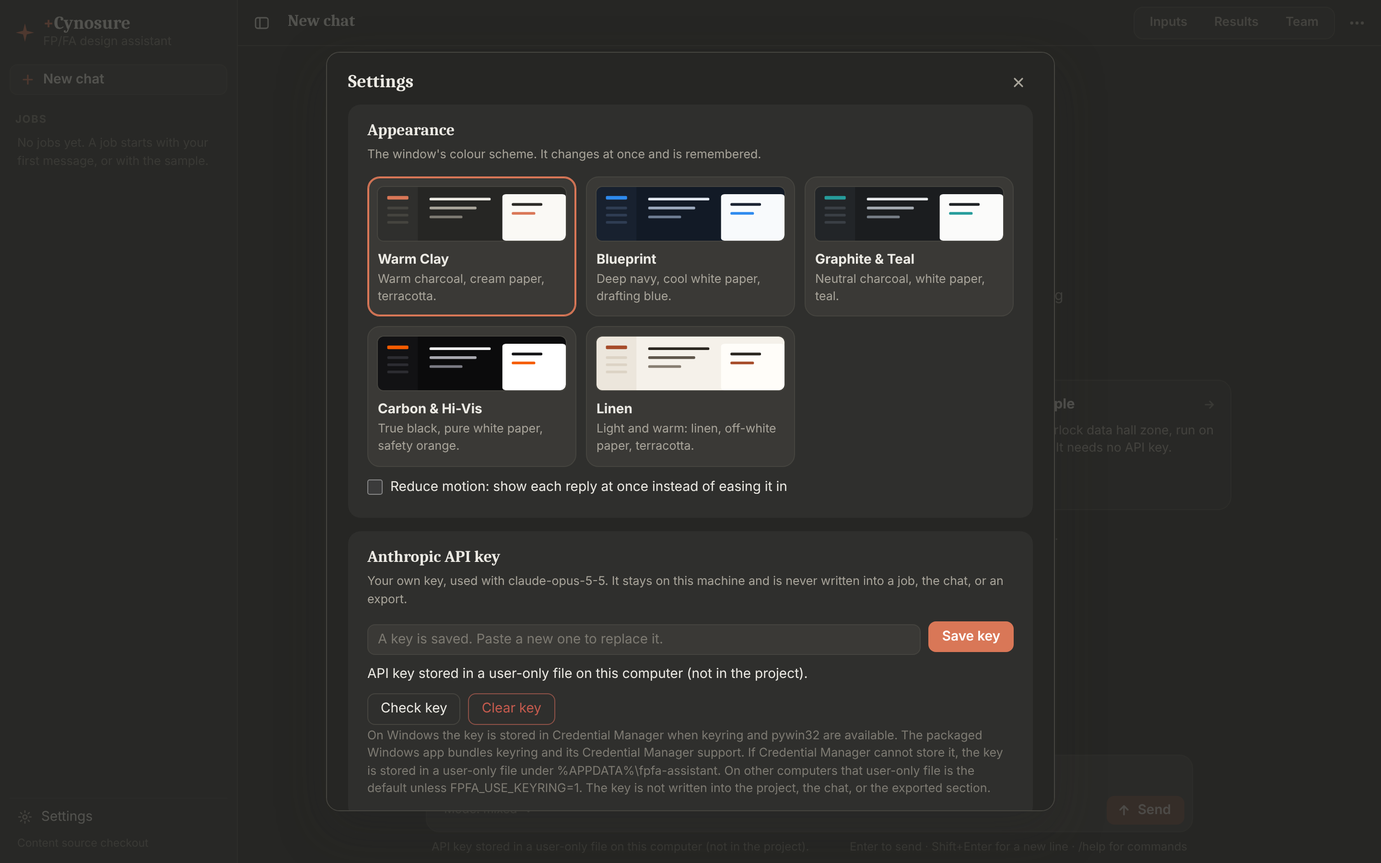
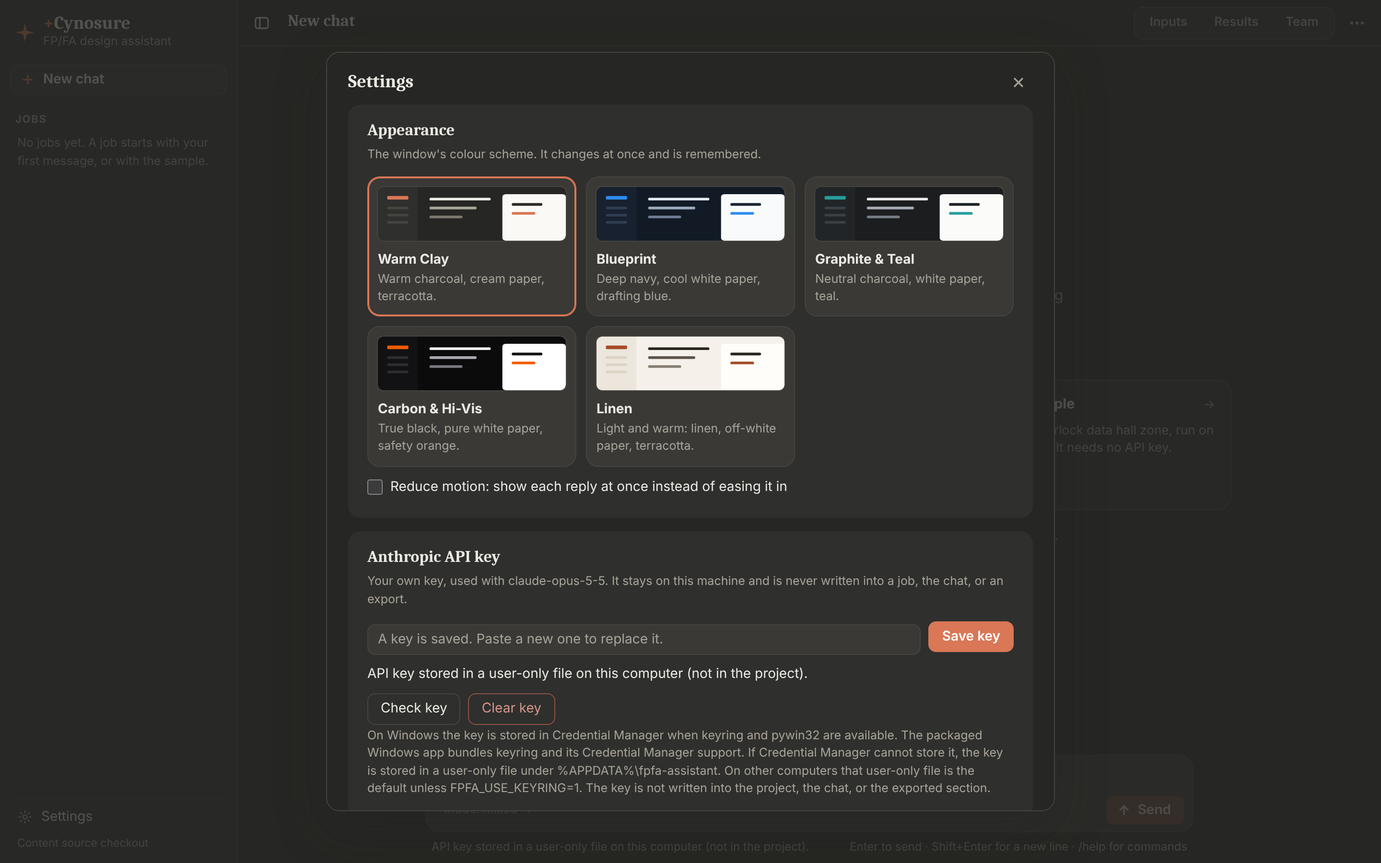
Read every rule that colours text at 4.5:1 in all five schemes
F-005 of the app-v0.3.0 acceptance report, and the rest of the same rule.

Small secondary text read --ink-faint: the sidebar's tagline and content
line, the composer's footer, units, section labels, table heads, captions,
menu hints, and placeholders, at 2.7 to 4.6:1 by scheme and surface. It
now reads --ink-dim, which holds 4.5:1 on every surface in every scheme.
--ink-faint stays on what is not text a reader needs: borders, fills, a
separator dot, and a decorative icon.

The report measured the faint text. The same rule failed for text in a
status colour, at the default scheme's worst: error text 3.2:1, links and
the attention label 4.3:1, and warning text 3.85:1 in Linen. Each now mixes
its colour toward the ink, by the smallest share that reads at 4.5:1 in
all five schemes (error 40 percent, link and attention 20, warning 15), so
it keeps its hue. A glyph or icon in a status colour keeps its token.

Held by a test that reads styles.css and resolves every text colour in
every scheme against the background, the surface, and a raised card, and
by one that keeps --ink-faint off text. A disabled control is exempt, as
WCAG 1.4.3 exempts inactive components. Text on the accent is left out,
and said so: Warm Clay's white on terracotta is 3.1:1, a brand colour that
is the owner's to change.

The page is rebuilt (the script is byte for byte the same; its name moves
with the stylesheet's) and the README's pictures retaken.
[…]

Changed region(s): [[0.2812, 0.84, 0.7188, 0.9333], [0.4375, 0.7156, 0.4688, 0.7467], [0.3438, 0.7156, 0.375, 0.7467]]

diff --git a/app/fpfa/web/static/assets/index-Cip3EMOz.css b/app/fpfa/web/static/assets/index-Cip3EMOz.css
@@ -1,0 +1,1 @@
+:root,:root[data-theme=clay]{color-scheme:dark;--bg: #262624;--surface: #2f2f2d;--raised: #3a3936;--edge: #45443f;--ink: #eceae4;--ink-dim: #a8a49a;--ink-faint: #7d7a72;--accent: #d97757;--accent-hover: #e08b6d;--on-accent: #ffffff;--paper: #faf9f5;--paper-edge: #e6e2d8;--paper-ink: #2c2b27;--paper-dim: #8a8578;--paper-faint: #b5b0a3;--ok: #7fa650;--warn: #d4a04c;--err: #c65b4e;--err-tint: #fbeeec}:root[data-theme=blueprint]{color-scheme:dark;--bg: #121a26;--surface: #18212f;--raised: #212c3d;--edge: #2f3d53;--ink: #e3e9f2;--ink-dim: #9aa8bc;--ink-faint: #6e7d93;--accent: #2e8aee;--accent-hover: #4da0f5;--on-accent: #08111d;--paper: #f8fafc;--paper-edge: #dbe2ec;--paper-ink: #1b2433;--paper-dim: #66748a;--paper-faint: #a5b0c0;--ok: #428a5e;--warn: #e2ad4f;--err: #dc4739;--err-tint: #fcefee}:root[data-theme=graphite]{color-scheme:dark;--bg: #1b1d1f;--surface: #222528;--raised: #2b2f33;--edge: #3a3f45;--ink: #e7e9eb;--ink-dim: #a3a9b0;--ink-faint: #767d85;--accent: #269c9b;--accent-hover: #37acaa;--on-accent: #061b1b;--paper: #fbfbfa;--paper-edge: #e1e4e6;--paper-ink: #1f2326;--paper-dim: #6c747c;--paper-faint: #a8afb5;--ok: #5f8f3a;--warn: #e0a54a;--err: #d94b3c;--err-tint: #fcefed}:root[data-theme=carbon]{color-scheme:dark;--bg: #0b0b0c;--surface: #121214;--raised: #1b1b1e;--edge: #2c2c31;--ink: #f4f4f5;--ink-dim: #a9a9b0;--ink-faint: #7a7a82;--accent: #f55b00;--accent-hover: #ff7d30;--on-accent: #140700;--paper: #ffffff;--paper-edge: #e2e2e4;--paper-ink: #141416;--paper-dim: #66666d;--paper-faint: #a6a6ad;--ok: #318c52;--warn: #e8b230;--err: #e12c31;--err-tint: #fdecec}:root[data-theme=linen]{color-scheme:light;--bg: #f5f1ea;--surface: #ece6dc;--raised: #fffdf9;--edge: #dcd3c5;--ink: #2a2620;--ink-dim: #5f564b;--ink-faint: #877e72;--accent: #a64b29;--accent-hover: #8d3f22;--on-accent: #ffffff;--paper: #fffdf9;--paper-edge: #e6dfd3;--paper-ink: #2a2620;--paper-dim: #6c6459;--paper-faint: #aaa293;--ok: #3c7e39;--warn: #9d671b;--err: #b33d2c;--err-tint: #fbeceb}:root{--accent-soft: color-mix(in srgb, var(--accent) 16%, var(--bg));--select: color-mix(in srgb, var(--accent) 36%, var(--bg));--raised-hover: color-mix(in srgb, var(--ink) 7%, var(--raised));--raised-pressed: color-mix(in srgb, var(--ink) 13%, var(--raised));--side-hover: color-mix(in srgb, var(--ink) 6%, var(--surface));--focus-edge: color-mix(in srgb, var(--accent) 70%, var(--edge));--banner: color-mix(in srgb, var(--accent) 14%, var(--surface));--banner-edge: color-mix(in srgb, var(--accent) 45%, var(--edge));--paper-select: color-mix(in srgb, var(--accent) 24%, var(--paper));--paper-rule: color-mix(in srgb, var(--paper-ink) 22%, var(--paper));--disabled-ink: color-mix(in srgb, var(--ink) 36%, var(--bg));--shade: color-mix(in srgb, var(--bg) 35%, transparent);--overlay: color-mix(in srgb, var(--bg) 78%, transparent);--hairline: color-mix(in srgb, var(--edge) 60%, transparent);--font-body: "Segoe UI", ui-sans-serif, system-ui, -apple-system, "Helvetica Neue", Arial, sans-serif;--font-display: Georgia, Cambria, "Times New Roman", serif;--font-mono: "Cascadia Code", "Cascadia Mono", Consolas, ui-monospace, "SF Mono", Menlo, monospace;--column: 800px;--side-width: 248px;--bar-height: 48px;--ease-glide: cubic-bezier(.22, 1, .36, 1);--fade-ms: .52s}*{box-sizing:border-box}html,body,#root{height:100%;margin:0}body{background:var(--bg);color:var(--ink);font-family:var(--font-body);font-size:14px;line-height:1.45;-webkit-font-smoothing:antialiased;overflow:hidden}::selection{background:var(--select);color:var(--ink)}button,input,select,textarea{font:inherit;color:inherit}:focus{outline:none}:focus-visible{outline:2px solid var(--accent);outline-offset:2px}::-webkit-scrollbar{width:11px;height:11px}::-webkit-scrollbar-track{background:transparent}::-webkit-scrollbar-thumb{background:var(--edge);border:3px solid transparent;border-radius:8px;background-clip:padding-box}::-webkit-scrollbar-thumb:hover{background-color:var(--ink-faint)}.small{font-size:12.5px}.dim,.faint{color:var(--ink-dim)}.err{color:color-mix(in srgb,var(--err) 60%,var(--ink))}.warn-ink{color:color-mix(in srgb,var(--warn) 85%,var(--ink))}.pre-line{white-space:pre-line}.right{display:flex;justify-content:flex-end}.grow{flex:1}.display{font-family:var(--font-display);font-weight:600}p{margin:.3em 0}.visually-hidden{position:absolute;width:1px;height:1px;overflow:hidden;clip-path:inset(50%);white-space:nowrap}.loading{display:grid;place-items:center;height:100%;color:var(--ink-dim)}.window{display:flex;flex-direction:column;height:100%}.body{flex:1;min-height:0;display:grid;grid-template-columns:var(--side-width) minmax(0,1fr)}.body.no-side{grid-template-columns:minmax(0,1fr)}.work{display:flex;flex-direction:column;min-width:0;min-height:0}.stage{flex:1;min-height:0;display:grid;grid-template-columns:minmax(0,1fr)}.stage.with-panel{grid-template-columns:minmax(0,1fr) var(--panel-w, var(--panel-want, 480px))}.stage.panel-wide{grid-template-columns:minmax(0,1fr)}.stage.panel-wide .chat{display:none}body.resizing{cursor:col-resize;user-select:none}.banner-row{padding:12px 12px 0}.banner{display:flex;width:100%;align-items:flex-start;gap:12px;text-align:left;background:var(--banner);border:1px solid var(--banner-edge);border-radius:12px;padding:10px 16px;cursor:pointer}.banner span{flex:1}.button{display:inline-flex;align-items:center;justify-content:center;gap:7px;border:1px solid var(--edge);background:var(--raised);color:var(--ink);border-radius:8px;padding:5px 13px;min-height:32px;cursor:pointer;white-space:nowrap;transition:background-color .12s ease,border-color .12s ease}.button:hover{background:var(--raised-hover)}.button:active{background:var(--raised-pressed)}.button:disabled{color:var(--disabled-ink);cursor:default;background:var(--raised)}.button.wide{width:100%}.button.accent{background:var(--accent);border-color:var(--accent);color:var(--on-accent);font-weight:600}.button.accent:hover{background:var(--accent-hover);border-color:var(--accent-hover)}.button.accent:disabled{background:color-mix(in srgb,var(--accent) 38%,var(--bg));border-color:transparent;color:color-mix(in srgb,var(--on-accent) 70%,transparent)}.button.accent:focus-visible,.button.danger:focus-visible{outline:2px solid var(--on-accent);outline-offset:-5px}.button.ghost,.button.side{background:transparent}.button.ghost:hover{background:var(--raised)}.button.side:hover{background:var(--side-hover)}.button.on-card{background:transparent}.button.on-card:hover{background:var(--raised-hover)}.button.quiet{border-color:transparent;background:transparent;color:var(--ink-dim);min-height:28px;padding:3px 9px;font-size:12.5px}.button.quiet:hover{background:var(--raised-hover);color:var(--ink)}.button.danger{background:var(--err);border-color:var(--err);color:var(--on-accent);font-weight:600}.button.danger-ghost,.button.stop{background:transparent;color:color-mix(in srgb,var(--err) 60%,var(--ink));border-color:color-mix(in srgb,var(--err) 55%,var(--edge))}.button.danger-ghost:hover,.button.stop:hover{background:color-mix(in srgb,var(--err) 12%,var(--surface))}.button.danger-ghost:disabled{color:var(--disabled-ink);border-color:var(--edge);background:transparent}.icon-button{display:inline-grid;place-items:center;width:30px;height:30px;border:0;border-radius:8px;background:transparent;color:var(--ink-dim);cursor:pointer;flex:none}.icon-button:hover{background:var(--raised);color:var(--ink)}.icon-button.on{color:var(--ink)}.link{border:0;background:none;color:color-mix(in srgb,var(--accent) 80%,var(--ink));padding:3px 0;cursor:pointer;text-align:left}.link:hover{text-decoration:underline}.chip{border:1px solid var(--edge);background:transparent;color:var(--ink-dim);border-radius:14px;padding:4px 12px;font-size:13px;cursor:pointer}.chip:hover{background:var(--raised);color:var(--ink)}.input{width:100%;min-width:0;background:var(--raised);border:1px solid var(--edge);border-radius:8px;padding:5px 10px;min-height:32px;color:var(--ink)}.input:hover{border-color:color-mix(in srgb,var(--ink-faint) 55%,var(--edge))}.input:focus,.input:focus-visible{border-color:var(--accent);outline:none}.input::placeholder{color:var(--ink-dim)}.input.well{background:var(--bg)}.input.notes{resize:vertical;min-height:72px;line-height:1.45;padding:7px 10px}.select{appearance:none;padding-left:8px;padding-right:24px;text-overflow:ellipsis;background-image:linear-gradient(45deg,transparent 50%,var(--ink-dim) 50%),linear-gradient(135deg,var(--ink-dim) 50%,transparent 50%);background-position:calc(100% - 15px) 52%,calc(100% - 10px) 52%;background-size:5px 5px;background-repeat:no-repeat}.field{display:flex;flex-direction:column;gap:4px;min-width:0}.field-label{color:var(--ink-dim);font-size:12px;white-space:nowrap;overflow:hidden;text-overflow:ellipsis}.control{position:relative}.control.with-unit .input{padding-right:56px}.unit{position:absolute;right:10px;top:50%;transform:translateY(-50%);font-size:11.5px;color:var(--ink-dim);pointer-events:none}.check{display:inline-flex;align-items:center;gap:8px;cursor:pointer;padding:3px 0}.check input{accent-color:var(--accent);width:16px;height:16px;margin:0}.sidebar{background:var(--surface);border-right:1px solid var(--edge);padding:12px 10px 10px;display:flex;flex-direction:column;min-height:0;min-width:0}.brand{display:flex;align-items:center;gap:9px;margin:2px 6px 14px}.star{color:var(--accent);flex:none}.wordmark{font-family:var(--font-display);font-weight:700;font-size:19px;line-height:1.1;color:var(--ink)}.wordmark .plus{color:var(--accent)}.new-chat{justify-content:flex-start;gap:9px;padding-left:11px;font-weight:600}.new-chat svg{color:var(--accent)}.section-label{font-size:11px;font-weight:700;letter-spacing:.08em;color:var(--ink-dim);margin:18px 6px 6px}.jobs{list-style:none;margin:0;padding:0;overflow-y:auto;flex:1;min-height:60px}.jobs.none{padding:2px 8px;line-height:1.5}.job{display:flex;align-items:center;gap:4px;padding:6px 6px 6px 10px;border-radius:8px;cursor:pointer;color:var(--ink-dim);min-height:34px}.job:hover{background:var(--side-hover);color:var(--ink)}.job.open{background:var(--raised);color:var(--ink)}.job-name{flex:1;min-width:0;overflow:hidden;text-overflow:ellipsis;white-space:nowrap}.job-more{visibility:hidden;border:0;background:transparent;color:var(--ink-dim);border-radius:6px;width:26px;height:24px;display:grid;place-items:center;cursor:pointer}.job:hover .job-more,.job:focus-within .job-more,.job.open .job-more{visibility:visible}.job-more:hover{color:var(--ink);background:var(--raised-hover)}.side-bottom{display:flex;flex-direction:column;gap:2px;padding-top:6px}.side-section{margin-bottom:6px}.side-section .section-label{margin-top:8px}.lines{list-style:none;margin:0;padding:0 4px;max-height:112px;overflow-y:auto;font-size:12.5px;color:var(--ink-dim)}.line-row{display:flex;gap:6px;padding:3px 6px;white-space:nowrap;overflow:hidden;text-overflow:ellipsis}.line-row .name{overflow:hidden;text-overflow:ellipsis}.line-row .glyph{width:1em;text-align:center;flex:none}.tone-accent .glyph{color:var(--accent)}.tone-ok .glyph{color:var(--ok)}.tone-err .glyph{color:var(--err)}.tone-warn .glyph{color:var(--warn)}.line-row .sep{color:var(--ink-faint)}.side-link{display:flex;align-items:center;gap:9px;width:100%;border:0;border-top:1px solid var(--hairline);background:transparent;color:var(--ink);padding:9px 8px 7px;margin-top:2px;cursor:pointer;text-align:left;border-radius:0 0 8px 8px}.side-link:hover{background:var(--side-hover)}.side-link svg{color:var(--ink-dim);flex:none}.side-flag{font-size:11px;padding:1px 7px;border-radius:9px;background:color-mix(in srgb,var(--warn) 26%,var(--surface))}.sidebar .content-status{margin:0 8px 2px;font-size:11.5px;white-space:nowrap;overflow:hidden;text-overflow:ellipsis}.topbar{flex:none;display:flex;align-items:center;gap:6px;height:var(--bar-height);padding:0 10px;border-bottom:1px solid var(--edge)}.job-title{flex:0 0 auto;max-width:46%;margin:0 4px 0 6px;font-size:17px;white-space:nowrap;overflow:hidden;text-overflow:ellipsis}.team-strip{flex:0 1 auto;min-width:0;margin-right:auto;display:flex;align-items:center;gap:8px;border:0;border-radius:8px;background:transparent;color:var(--ink-dim);padding:5px 9px;font-size:12.5px;text-align:left;cursor:pointer}.team-strip:hover{background:var(--raised);color:var(--ink)}.strip-dot{width:7px;height:7px;flex:none;border-radius:50%;background:var(--ink-faint)}.team-strip.waiting .strip-dot{background:var(--accent)}.strip-text{min-width:0;overflow:hidden;text-overflow:ellipsis;white-space:nowrap}.views{flex:none;display:flex;gap:2px;padding:3px;margin:0 2px;background:var(--surface);border:1px solid var(--edge);border-radius:10px}.view{display:inline-flex;align-items:center;gap:7px;min-height:26px;border:0;border-radius:7px;background:transparent;color:var(--ink-dim);padding:3px 13px;font-size:13px;font-weight:600;cursor:pointer}.view:hover{color:var(--ink);background:var(--side-hover)}.view.on{background:var(--accent-soft);color:var(--ink);box-shadow:inset 0 0 0 1px var(--focus-edge)}.count{display:inline-block;min-width:18px;padding:0 5px;border-radius:9px;background:var(--accent);color:var(--on-accent);font-size:11px;line-height:18px;text-align:center}.chat{display:flex;flex-direction:column;min-width:0;min-height:0;container:chat / inline-size}.thread-wrap{flex:1;min-height:0;position:relative}.thread-scroll{position:absolute;inset:0;overflow-y:auto;scrollbar-gutter:stable both-edges}.thread-column{max-width:calc(var(--column) + 48px);margin:0 auto;padding:18px 24px 20px;font-size:15px;line-height:1.55}.thread-column.empty{max-width:960px;min-height:100%;display:flex;align-items:center}.composer-row{width:100%;max-width:calc(var(--column) + 70px);margin:0 auto;padding:4px 35px 8px}.turn{margin:14px 0;content-visibility:auto;contain-intrinsic-size:auto 160px}.turn.user{display:flex;justify-content:flex-end;animation:rise .24s var(--ease-glide) both}.bubble{max-width:82%;background:var(--raised);border-radius:16px;padding:9px 15px 10px;white-space:pre-wrap;overflow-wrap:anywhere}.reply{overflow-wrap:anywhere}.block+.block{margin-top:.75em}.caption{font-size:12px;color:var(--ink-dim);margin-bottom:7px;line-height:1.4}.line{white-space:pre-wrap}.heading{font-family:var(--font-display);font-weight:600;margin:.6em 0 .2em;line-height:1.3}.heading.h1{font-size:1.32em}.heading.h2{font-size:1.18em}.heading.h3,.heading.h4{font-size:1.05em}.block:first-child>.heading:first-child{margin-top:0}.item{display:flex;gap:.55em;padding-left:8px}.item.depth2{padding-left:28px}.marker{flex:none;min-width:.8em;color:var(--ink-dim)}.item-body{min-width:0;white-space:pre-wrap}.reply strong{font-weight:650}.reply code,.bubble code{font-family:var(--font-mono);font-size:.88em;background:var(--raised);border-radius:5px;padding:1px 5px}.reply hr{border:0;border-top:1px solid var(--edge);margin:.8em 0}.paper{background:var(--paper);color:var(--paper-ink);border-radius:10px}.paper::selection,.paper *::selection{background:var(--paper-select);color:var(--paper-ink)}.block-pre{font-family:var(--font-mono);font-size:13px;line-height:1.5;padding:12px 14px;margin:2px 0;white-space:pre;overflow-x:auto}.block-table{padding:6px 4px;overflow-x:auto;margin:2px 0}.block-table table{border-collapse:collapse;font-family:var(--font-mono);font-size:13px;width:max-content;min-width:100%}.block-table th,.block-table td{padding:4px 10px;vertical-align:top}.block-table th{font-weight:700;border-bottom:1px solid var(--paper-rule)}.block-table tbody tr+tr td{border-top:1px solid var(--paper-edge)}.fresh{animation:fade-in var(--fade-ms) var(--ease-glide) both}@keyframes fade-in{0%{opacity:0}to{opacity:1}}@keyframes rise{0%{opacity:0;transform:translateY(6px)}to{opacity:1;transform:none}}.caret{display:inline-block;width:.48em;height:1.05em;margin-left:2px;vertical-align:-.16em;border-radius:1px;background:var(--accent)}.caret.blink{animation:blink 1.1s steps(2,jump-none) infinite}@keyframes blink{50%{opacity:0}}.working{display:flex;align-items:center;gap:10px;margin:12px 0 4px;color:var(--ink-dim);font-size:14px}.dots{display:inline-flex;gap:4px}.dots i{width:6px;height:6px;border-radius:50%;background:var(--accent);opacity:.55}.working.moving .dots i{animation:pulse 1.2s ease-in-out infinite}.working.moving .dots i:nth-child(2){animation-delay:.15s}.working.moving .dots i:nth-child(3){animation-delay:.3s}@keyframes pulse{0%,to{opacity:.25;transform:scale(.85)}40%{opacity:1;transform:scale(1)}}.working-detail{color:var(--ink-dim)}.working.moving .working-detail{background:linear-gradient(90deg,var(--ink-faint) 0%,var(--ink) 50%,var(--ink-faint) 100%);background-size:200% 100%;-webkit-background-clip:text;background-clip:text;color:transparent;animation:shimmer 2.2s linear infinite}@keyframes shimmer{0%{background-position:100% 0}to{background-position:-100% 0}}.welcome{width:100%;padding:12px 0 20px;text-align:center}.welcome h1{font-size:28px;margin:12px 0 8px}.welcome .dim{max-width:560px;margin:4px auto}.welcome-links{display:flex;flex-direction:column;align-items:center;gap:6px;margin:18px 0 0}.welcome-link{border:1px solid var(--banner-edge);background:var(--banner);color:var(--ink);border-radius:10px;padding:7px 15px;cursor:pointer}.welcome-link:hover{border-color:var(--accent)}.welcome-cards{display:grid;grid-template-columns:repeat(3,minmax(0,1fr));gap:12px;max-width:880px;margin:26px auto 18px;text-align:left}.welcome-card{display:flex;flex-direction:column;gap:6px;border:1px solid var(--edge);border-radius:14px;background:var(--surface);color:var(--ink);padding:14px 16px 16px;text-align:left;cursor:pointer;transition:background-color .12s ease,border-color .12s ease}.welcome-card:hover{background:var(--raised);border-color:var(--focus-edge)}.card-title{display:flex;align-items:center;justify-content:space-between;gap:8px;font-size:14.5px;font-weight:650}.card-title svg{color:var(--ink-faint);flex:none}.welcome-card:hover .card-title svg{color:var(--accent)}.card-text{font-size:13px;line-height:1.45;color:var(--ink-dim)}@container chat (max-width: 660px){.welcome-cards{grid-template-columns:minmax(0,1fr);max-width:420px}.composer-foot .hint{display:none}}.jump{position:absolute;left:50%;bottom:12px;transform:translate(-50%);display:inline-flex;align-items:center;gap:6px;border:1px solid var(--edge);background:var(--raised);color:var(--ink);border-radius:16px;padding:5px 13px;font-size:13px;cursor:pointer;box-shadow:0 4px 14px var(--shade)}.jump:hover{background:var(--raised-hover)}.chips{display:flex;flex-wrap:wrap;gap:8px;margin-bottom:9px}.composer{display:flex;flex-direction:column;gap:2px;background:var(--raised);border:1px solid var(--edge);border-radius:14px;padding:8px 8px 7px;cursor:text;transition:border-color .12s ease}.composer:focus-within{border-color:var(--focus-edge)}.composer textarea{width:100%;min-width:0;border:0;background:transparent;resize:none;padding:4px 8px 6px;font-size:15px;line-height:22px}.composer textarea::placeholder{color:var(--ink-dim);white-space:nowrap;overflow:hidden;text-overflow:ellipsis}.composer textarea:focus-visible{outline:none}.composer-bar{display:flex;align-items:center;gap:6px;cursor:default}.composer .send,.composer .stop{min-height:30px;padding:4px 13px 4px 10px}.composer-foot{display:flex;justify-content:space-between;gap:16px;padding:6px 6px 0;font-size:12px;color:var(--ink-dim);min-height:24px}.composer-foot .status{flex:1;min-width:0;white-space:nowrap;overflow:hidden;text-overflow:ellipsis}.composer-foot .hint{white-space:nowrap}.job-panel{position:relative;display:flex;flex-direction:column;min-width:0;min-height:0;background:var(--surface);border-left:1px solid var(--edge);container:panel / inline-size;animation:slide-in .18s var(--ease-glide) both}.stage.panel-wide .job-panel{border-left:0;animation:none}@keyframes slide-in{0%{opacity:0;transform:translate(12px)}}.panel-edge{position:absolute;left:-5px;top:0;bottom:0;width:9px;z-index:5;cursor:col-resize;touch-action:none}.panel-edge:after{content:"";position:absolute;left:3px;top:0;bottom:0;width:2px;background:transparent;transition:background-color .12s ease}.panel-edge:hover:after,.panel-edge:focus-visible:after,body.resizing .panel-edge:after{background:var(--accent)}.panel-edge:focus-visible{outline:none}.pane{flex:1;min-height:0;display:flex;flex-direction:column}.pane-scroll{flex:1;min-height:0;overflow-y:auto;padding:16px 18px 20px;font-size:13.5px}.action-bar{flex:none;display:flex;align-items:center;gap:14px;padding:10px 18px;border-top:1px solid var(--edge)}.action-note{flex:1;min-width:0}.card{background:var(--raised);border-radius:12px;padding:12px 14px}.row,.row-buttons{display:flex;flex-wrap:wrap;align-items:center;gap:8px}.group{margin:0 0 20px}.group-title{margin:0 0 10px;font-family:var(--font-body);font-size:13px;font-weight:650;color:var(--ink)}.group-note{margin:10px 0 0;line-height:1.5}.empty{max-width:460px;margin:12vh auto 0;text-align:center}.empty h2{margin:0 0 8px;font-size:19px}.empty-actions{justify-content:center;margin-top:16px}.inputs-columns{display:grid;grid-template-columns:minmax(0,1fr);gap:0 32px;align-items:start}.inputs .group+.group{border-top:1px solid var(--hairline);padding-top:16px}.inputs-column+.inputs-column .group:first-child{border-top:1px solid var(--hairline);padding-top:16px}.fields{display:grid;grid-template-columns:repeat(2,minmax(0,1fr));gap:10px 12px;align-items:start}.field.span-all{grid-column:1 / -1}.flags{display:flex;flex-wrap:wrap;gap:2px 22px;margin-top:10px}.segments{margin-top:12px;padding:6px 10px 12px}.grid-table{width:100%;border-collapse:collapse;font-size:13px}.grid-table th{text-align:left;font-size:11.5px;color:var(--ink-dim);font-weight:600;padding:5px 6px;border-bottom:1px solid var(--edge);white-space:nowrap}.grid-table td{padding:4px 6px;border-bottom:1px solid var(--hairline)}.grid-table .num{text-align:right;font-variant-numeric:tabular-nums}.grid-table .end{width:30px;text-align:right;padding-right:0}.small-x{width:24px;height:24px}.segment-add{display:grid;grid-template-columns:1.2fr .8fr 1fr 1fr auto;gap:8px;align-items:end;margin-top:10px}.assumptions{line-height:1.55}@container panel (min-width: 900px){.inputs-columns{grid-template-columns:minmax(0,1.1fr) minmax(0,1fr)}.inputs-column+.inputs-column .group:first-child{border-top:0;padding-top:0}}@container panel (min-width: 520px){.fields{grid-template-columns:repeat(4,minmax(0,1fr))}}@container panel (max-width: 460px){.segment-add{grid-template-columns:1fr 1fr}.segment-add .button{grid-column:1 / -1}}.results-head{display:flex;align-items:flex-start;justify-content:space-between;gap:12px;margin-bottom:12px}.results-head h2{margin:0;font-size:18px}.results-head p{margin:2px 0 0}.tiles{display:grid;grid-template-columns:repeat(2,minmax(0,1fr));gap:10px;margin-bottom:20px}@container panel (max-width: 400px){.tiles{grid-template-columns:minmax(0,1fr)}}@container panel (min-width: 820px){.tiles{grid-template-columns:repeat(auto-fill,minmax(250px,1fr))}}.tile{display:flex;flex-direction:column;gap:5px;min-width:0;background:var(--raised);border:1px solid transparent;border-radius:12px;padding:12px 14px 13px}.tile.span-all{grid-column:1 / -1}.tile-head{display:flex;flex-wrap:wrap;align-items:center;justify-content:space-between;gap:4px 8px;min-height:20px}.tile-title{font-size:12px;font-weight:650;color:var(--ink-dim)}.label-chip{flex:none;padding:1px 8px;border-radius:9px;background:color-mix(in srgb,var(--ink) 9%,var(--raised));color:var(--ink-dim);font-size:11px;white-space:nowrap}.label-chip.assumed{background:color-mix(in srgb,var(--warn) 26%,var(--raised));color:var(--ink)}.tile-value{display:flex;align-items:baseline;gap:6px}.tile-value .display{font-size:28px;line-height:1.15}.tile-unit{font-size:13px;color:var(--ink-dim)}.tile-code{font-family:var(--font-mono);font-size:12px;background:var(--bg);border-radius:7px;padding:7px 9px;overflow-wrap:anywhere}.tile p{margin:0}.tile-verdict{font-size:12.5px;font-weight:650}.tile-line{font-size:12px;line-height:1.45;color:var(--ink-dim)}.tile.tone-warn{border-color:color-mix(in srgb,var(--warn) 55%,var(--edge));background:color-mix(in srgb,var(--warn) 8%,var(--raised))}.tile.tone-ok{border-color:color-mix(in srgb,var(--ok) 45%,var(--edge))}.results-columns{display:grid;grid-template-columns:minmax(0,1fr);gap:0 32px;align-items:start}@container panel (min-width: 900px){.results-columns{grid-template-columns:repeat(2,minmax(0,1fr))}}.narrative{max-width:78ch;line-height:1.55;color:var(--ink-dim)}.run-heading{margin-top:14px}.results .callout{margin-bottom:14px}.disclosure{border-top:1px solid var(--hairline);padding-top:8px}.disclosure>summary{display:flex;align-items:center;gap:8px;padding:5px 4px;border-radius:7px;font-size:13px;font-weight:650;cursor:pointer;list-style:none}.disclosure>summary::-webkit-details-marker{display:none}.disclosure>summary:hover{background:var(--raised)}.sheet{font-family:var(--font-mono);font-size:12.5px;line-height:1.5;white-space:pre-wrap;overflow-wrap:anywhere;padding:14px 16px;margin:8px 0 0}.team-grid{display:grid;grid-template-columns:minmax(0,1fr);gap:0 28px;align-items:start}.team-block{margin-bottom:20px}.team-block>.section-label{margin:0 2px 8px}.section-label.attention{color:color-mix(in srgb,var(--accent) 80%,var(--ink))}.team .card+.card{margin-top:8px}.team .card p{margin:0 0 6px}.team .card p:last-child{margin-bottom:0}.block-note{margin:8px 2px 0;line-height:1.5}@container panel (min-width: 940px){.team-grid{grid-template-columns:minmax(0,1.2fr) minmax(0,1fr)}.team-area.waiting{grid-column:1 / -1;display:grid;grid-template-columns:repeat(auto-fit,minmax(340px,1fr));gap:0 28px;align-items:start}}.stand-objective{font-family:var(--font-display);font-size:15.5px}.stand-columns{display:grid;grid-template-columns:minmax(0,1fr);gap:0 24px}.stand{container:stand / inline-size}@container stand (min-width: 700px){.stand-columns{grid-template-columns:repeat(auto-fit,minmax(240px,1fr))}.stand-columns .people{border-top:0;padding-top:0}}.steps,.people,.evidence{list-style:none;margin:0 0 8px;padding:0}.steps li,.people li{display:flex;gap:8px;padding:2px 0}.people{border-top:1px solid var(--hairline);padding-top:8px}.step-mark{width:14px;flex:none;text-align:center;color:var(--ink-dim)}.step.done .step-mark{color:var(--ok)}.step.doing .step-mark{color:var(--accent)}.step.blocked .step-mark{color:var(--err)}.stand-line{overflow-wrap:anywhere}.stand .row-buttons{margin-top:12px;padding-top:12px;border-top:1px solid var(--hairline)}.ask{border:1px solid color-mix(in srgb,var(--accent) 45%,var(--edge))}.ask-text{display:block;font-weight:600}.answer{margin:6px 0 8px;padding:7px 10px;min-height:54px;resize:vertical;line-height:1.4}.ask-foot{display:flex;align-items:center;justify-content:space-between;gap:10px}.callout{border:1px solid color-mix(in srgb,var(--accent) 35%,var(--edge));background:color-mix(in srgb,var(--accent) 7%,var(--raised))}.callout.warn{border-color:color-mix(in srgb,var(--warn) 55%,var(--edge));background:color-mix(in srgb,var(--warn) 9%,var(--raised))}.change{font-weight:600}.evidence li{position:relative;padding:2px 0 2px 14px;overflow-wrap:anywhere}.evidence li:before{content:"";position:absolute;left:2px;top:.74em;width:4px;height:4px;border-radius:50%;background:var(--ink-faint)}.group .evidence{color:var(--ink-dim);line-height:1.5}.warnings .evidence{color:color-mix(in srgb,var(--warn) 85%,var(--ink))}.rfis{margin:0;padding-left:20px}.rfis li{padding:2px 0}.dispute{padding:9px 0;border-bottom:1px solid var(--hairline)}.dispute:first-child{padding-top:0}.dispute:last-child{border-bottom:0;padding-bottom:0}.quote{border-left:2px solid var(--edge);padding-left:9px;color:var(--ink-dim)}.tag{margin-left:8px;padding:1px 7px;border-radius:9px;font-size:11px;background:color-mix(in srgb,var(--warn) 24%,var(--raised))}.dot{display:inline-block;width:9px;height:9px;flex:none;border-radius:50%;background:var(--ink-faint)}.dot.tier-source{background:var(--ok)}.dot.tier-checker{background:transparent;box-shadow:inset 0 0 0 2px var(--ok)}.dot.tier-reviewed{background:var(--warn)}.dot.tier-stated{background:transparent;box-shadow:inset 0 0 0 2px var(--ink-faint)}.dot.tier-open{background:var(--err)}.tiers{padding-top:6px}.tier{padding:3px 0;border-bottom:1px solid var(--hairline)}.tier>summary,.finding>summary,.exchange>summary{cursor:pointer;border-radius:7px;list-style:none}.tier>summary::-webkit-details-marker,.finding>summary::-webkit-details-marker,.exchange>summary::-webkit-details-marker{display:none}.tier>summary:hover,.finding>summary:hover,.exchange>summary:hover{background:var(--raised-hover)}.tier>summary:after,.finding>summary:after,.disclosure>summary:before{content:"";width:6px;height:6px;flex:none;margin:0 6px 0 4px;border-right:1.5px solid var(--ink-faint);border-bottom:1.5px solid var(--ink-faint);transform:rotate(-45deg);transition:transform .12s ease}.tier[open]>summary:after,.finding[open]>summary:after,.disclosure[open]>summary:before{transform:rotate(45deg)}.tier>summary{display:flex;align-items:center;gap:8px;padding:6px 4px;font-weight:600}.tier-title{flex:1}.tier-count{color:var(--ink-dim);font-weight:400}.team .card p.tier-note{margin:0 4px 6px 21px}.finding{margin:0 0 2px 8px;border-left:1px solid var(--edge)}.finding>summary{display:grid;grid-template-columns:auto 1fr auto;gap:1px 8px;align-items:baseline;padding:6px 2px 6px 10px}.finding>summary .dot{align-self:center}.finding-text{overflow-wrap:anywhere}.finding-meta{grid-column:2;font-size:12px;color:var(--ink-dim)}.finding-why{grid-column:2;font-size:12px;color:var(--ink)}.finding[open]>summary{background:color-mix(in srgb,var(--accent) 9%,var(--raised))}.finding-body{padding:2px 8px 10px 27px;font-size:13px}.team .card p.evidence-head{margin:9px 0 2px;font-size:11px;font-weight:700;letter-spacing:.06em;text-transform:uppercase;color:var(--ink-dim)}.team .card p.legend{display:flex;flex-wrap:wrap;gap:4px 14px;margin-top:10px}.legend-item{display:inline-flex;align-items:center;gap:6px}.exchanges{padding:4px 6px}.exchange-none{margin:0;padding:8px}[hidden]{display:none!important}.exchange+.exchange{border-top:1px solid var(--hairline)}.exchange>summary{display:grid;grid-template-columns:66px minmax(0,1fr) auto auto;gap:1px 10px;align-items:baseline;padding:7px 8px}.exchange-kind{font-size:11px;font-weight:700;letter-spacing:.05em;text-transform:uppercase;color:var(--ink-dim)}.exchange-who{font-weight:600;overflow:hidden;text-overflow:ellipsis;white-space:nowrap}.exchange-status,.exchange-when{font-size:12px;color:var(--ink-dim);white-space:nowrap}.exchange-brief{grid-column:2 / -1;font-size:12.5px;color:var(--ink-dim);overflow:hidden;text-overflow:ellipsis;white-space:nowrap}.exchange[open]>summary{background:color-mix(in srgb,var(--accent) 9%,var(--raised))}.exchange[open] .exchange-brief{white-space:normal}.text-card{white-space:pre-wrap;overflow-wrap:anywhere;font-family:var(--font-body);font-size:12.5px;margin:0}.text-card.detail{margin:6px 4px 10px;padding:10px 12px;border-radius:8px;background:var(--bg)}.menu{position:fixed;z-index:60;width:max-content;min-width:230px;max-width:min(380px,calc(100vw - 16px));background:var(--raised);border:1px solid var(--edge);border-radius:10px;padding:5px;box-shadow:0 10px 30px var(--shade);font-size:13.5px;animation:pop .11s var(--ease-glide) both}@keyframes pop{0%{opacity:0;transform:translateY(-3px)}}.menu-item{display:flex;align-items:center;gap:8px;padding:6px 10px 6px 6px;border-radius:6px;cursor:pointer;user-select:none}.menu-item.active{background:var(--accent);color:var(--on-accent)}.menu-item.active .menu-hint{color:inherit}.menu-item.disabled{color:var(--disabled-ink);cursor:default}.menu-item.danger:not(.active){color:color-mix(in srgb,var(--err) 60%,var(--ink))}.menu-mark{width:14px;display:inline-grid;place-items:center;flex:none}.menu-label{flex:1}.menu-hint{color:var(--ink-dim);font-family:var(--font-mono);font-size:12px}.menu-sep{height:1px;margin:4px 6px;background:var(--edge)}.overlay{position:fixed;inset:0;z-index:50;background:var(--overlay);display:grid;place-items:center;animation:fade-in .12s ease both}.dialog{width:min(480px,92vw);max-height:88vh;overflow-y:auto;background:var(--bg);border:1px solid var(--edge);border-radius:14px;padding:16px 22px 18px;box-shadow:0 18px 50px var(--shade);animation:pop .14s var(--ease-glide) both}.dialog.wide{width:min(760px,94vw)}.dialog-head{display:flex;align-items:center;justify-content:space-between;margin-bottom:8px}.dialog-head h2{margin:0;font-family:var(--font-display);font-size:19px}.dialog-text{white-space:pre-wrap;margin:6px 0 4px}.dialog-actions{display:flex;justify-content:flex-end;gap:8px;margin-top:16px}.dialog form .input{margin-top:6px}.dialog .field-label{font-size:13px}.text-dialog h3{margin:4px 0 2px;font-size:17px}.text-dialog .sheet{max-height:56vh;overflow:auto}.settings .panel{background:var(--surface);border-radius:13px;padding:16px 20px 18px;margin-bottom:14px}.settings .panel h3{margin:0 0 2px;font-size:17px}.settings .panel>.row,.settings .panel>form.row{margin-top:10px}.settings .section-label{margin-left:0}.schemes{display:grid;grid-template-columns:repeat(3,1fr);gap:10px;margin:12px 0 8px}.scheme-card{display:flex;flex-direction:column;align-items:flex-start;gap:2px;text-align:left;background:var(--raised);border:1px solid var(--edge);border-radius:13px;padding:10px;cursor:pointer}.scheme-card:hover{border-color:var(--focus-edge)}.scheme-card.chosen{border-color:var(--accent);box-shadow:inset 0 0 0 1px var(--accent)}.scheme-preview{width:100%;height:56px;border-radius:6px;margin-bottom:8px;outline:1px solid var(--edge)}.scheme-name{font-weight:650}.key-message{margin:10px 0 2px}.changelog{margin:5px 0 10px;padding:8px 12px;background:var(--raised);border-radius:9px;white-space:pre-wrap;font-family:var(--font-body);font-size:12.5px;max-height:140px;overflow:auto}.advanced{display:grid;gap:6px;margin-top:8px}@media (prefers-reduced-motion: reduce){*,*:before,*:after{animation-duration:1ms!important;animation-iteration-count:1!important;transition-duration:1ms!important}}

diff --git a/app/frontend/src/styles.css b/app/frontend/src/styles.css
@@ -222,13 +222,13 @@ textarea {
   color: var(--ink-dim);
 }
 .faint {
-  color: var(--ink-faint);
+  color: var(--ink-dim);
 }
 .err {
-  color: var(--err);
+  color: color-mix(in srgb, var(--err) 60%, var(--ink));
 }
 .warn-ink {
-  color: var(--warn);
+  color: color-mix(in srgb, var(--warn) 85%, var(--ink));
 }
 .pre-line {
   white-space: pre-line;
@@ -421,7 +421,7 @@ body.resizing {
 .button.danger-ghost,
 .button.stop {
   background: transparent;
-  color: var(--err);
+  color: color-mix(in srgb, var(--err) 60%, var(--ink));
   border-color: color-mix(in srgb, var(--err) 55%, var(--edge));
 }
 .button.danger-ghost:hover,
@@ -457,7 +457,7 @@ body.resizing {
 .link {
   border: 0;
   background: none;
-  color: var(--accent);
+  color: color-mix(in srgb, var(--accent) 80%, var(--ink));
   padding: 3px 0;
   cursor: pointer;
   text-align: left;
@@ -501,7 +501,7 @@ body.resizing {
   outline: none;
 }
 .input::placeholder {
-  color: var(--ink-faint);
+  color: var(--ink-dim);
 }
 .input.well {
   background: var(--bg);
@@ -549,7 +549,7 @@ body.resizing {
   top: 50%;
   transform: translateY(-50%);
   font-size: 11.5px;
-  color: var(--ink-faint);
+  color: var(--ink-dim);
   pointer-events: none;
 }
 .check {
@@ -610,7 +610,7 @@ body.resizing {
   font-size: 11px;
   font-weight: 700;
   letter-spacing: 0.08em;
-  color: var(--ink-faint);
+  color: var(--ink-dim);
   margin: 18px 6px 6px;
 }
 .jobs {
@@ -654,7 +654,7 @@ body.resizing {
   visibility: hidden;
   border: 0;
   background: transparent;
-  color: var(--ink-faint);
+  color: var(--ink-dim);
   border-radius: 6px;
   width: 26px;
   height: 24px;
@@ -932,7 +932,7 @@ body.resizing {
 }
 .caption {
   font-size: 12px;
-  color: var(--ink-faint);
+  color: var(--ink-dim);
   margin-bottom: 7px;
   line-height: 1.4;
 }
@@ -1115,7 +1115,7 @@ body.resizing {
   }
 }
 .working-detail {
-  color: var(--ink-faint);
+  color: var(--ink-dim);
 }
 .working.moving .working-detail {
   background: linear-gradient(90deg, var(--ink-faint) 0%, var(--ink) 50%, var(--ink-faint) 100%);
@@ -1275,7 +1275,7 @@ body.resizing {
 }
 /* The placeholder stays on one line: the box is sized by what is typed, not by the hint. */
 .composer textarea::placeholder {
-  color: var(--ink-faint);
+  color: var(--ink-dim);
   white-space: nowrap;
   overflow: hidden;
   text-overflow: ellipsis;
@@ -1300,7 +1300,7 @@ body.resizing {
   gap: 16px;
   padding: 6px 6px 0;
   font-size: 12px;
-  color: var(--ink-faint);
+  color: var(--ink-dim);
   min-height: 24px;
 }
 .composer-foot .status {
@@ -1477,7 +1477,7 @@ body.resizing .panel-edge::after {
 .grid-table th {
   text-align: left;
   font-size: 11.5px;
-  color: var(--ink-faint);
+  color: var(--ink-dim);
   font-weight: 600;
   padding: 5px 6px;
   border-bottom: 1px solid var(--edge);
@@ -1716,7 +1716,7 @@ body.resizing .panel-edge::after {
   margin: 0 2px 8px;
 }
 .section-label.attention {
-  color: var(--accent);
+  color: color-mix(in srgb, var(--accent) 80%, var(--ink));
 }
 .team .card + .card {
   margin-top: 8px;
@@ -1787,7 +1787,7 @@ body.resizing .panel-edge::after {
   width: 14px;
   flex: none;
   text-align: center;
-  color: var(--ink-faint);
+  color: var(--ink-dim);
 }
 .step.done .step-mark {
   color: var(--ok);
@@ -1857,7 +1857,7 @@ body.resizing .panel-edge::after {
   line-height: 1.5;
 }
 .warnings .evidence {
-  color: var(--warn);
+  color: color-mix(in srgb, var(--warn) 85%, var(--ink));
 }
 .rfis {
   margin: 0;
@@ -2015,7 +2015,7 @@ body.resizing .panel-edge::after {
   font-weight: 700;
   letter-spacing: 0.06em;
   text-transform: uppercase;
-  color: var(--ink-faint);
+  color: var(--ink-dim);
 }
 .team .card p.legend {
   display: flex;
@@ -2054,7 +2054,7 @@ body.resizing .panel-edge::after {
   font-weight: 700;
   letter-spacing: 0.05em;
   text-transform: uppercase;
-  color: var(--ink-faint);
+  color: var(--ink-dim);
 }
 .exchange-who {
   font-weight: 600;
@@ -2140,7 +2140,7 @@ body.resizing .panel-edge::after {
   cursor: default;
 }
 .menu-item.danger:not(.active) {
-  color: var(--err);
+  color: color-mix(in srgb, var(--err) 60%, var(--ink));
 }
 .menu-mark {
   width: 14px;
@@ -2152,7 +2152,7 @@ body.resizing .panel-edge::after {
   flex: 1;
 }
 .menu-hint {
-  color: var(--ink-faint);
+  color: var(--ink-dim);
   font-family: var(--font-mono);
   font-size: 12px;
 }

diff --git a/app/fpfa/web/static/index.html b/app/fpfa/web/static/index.html
@@ -12,8 +12,8 @@
         if (theme && /^[a-z]+$/.test(theme)) document.documentElement.setAttribute("data-theme", theme);
       })();
     </script>
-    <script type="module" crossorigin src="/assets/index-DO9vc-6e.js"></script>
-    <link rel="stylesheet" crossorigin href="/assets/index-C5Rd2R7u.css">
+    <script type="module" crossorigin src="/assets/index-B9yQm2jR.js"></script>
+    <link rel="stylesheet" crossorigin href="/assets/index-Cip3EMOz.css">
   </head>
   <body>
     <div id="root"></div>

diff --git a/app/tests/test_acceptance_report_030.py b/app/tests/test_acceptance_report_030.py
@@ -767,5 +767,69 @@ class LiveTeamTests(unittest.TestCase):
             root.destroy()
 
 
+class TextContrastTests(unittest.TestCase):
+    """F-005. Small secondary text read --ink-faint, 2.7 to 4.6:1. Error, warning, and link text was as low as 3.2:1."""
+
+    # What takes a colour and is not text a reader needs: a separator dot, an icon or a glyph that a word beside it
+    # repeats, and the wordmark. They keep their tokens.
+    DECORATION = {".line-row .sep", ".card-title svg", ".welcome-card:hover .card-title svg", ".star", ".wordmark .plus",
+                  ".new-chat svg", ".tone-accent .glyph", ".tone-ok .glyph", ".tone-err .glyph", ".tone-warn .glyph",
+                  ".step.done .step-mark", ".step.doing .step-mark", ".step.blocked .step-mark"}
+
+    def _rules(self):
+        import re
+
+        css = (APP_DIR / "frontend" / "src" / "styles.css").read_text(encoding="utf-8")
+        css = re.sub(r"/\*.*?\*/", "", css, flags=re.S)
+        for match in re.finditer(r"([^{}]+)\{([^{}]*)\}", css):
+            colour = re.search(r"(?<![-\w])color:\s*([^;]+);", match.group(2))
+            if colour:
+                for selector in match.group(1).split(","):
+                    yield " ".join(selector.split()), colour.group(1).strip()
+
+    def _resolve(self, value, colors):
+        import re
+
+        from fpfa.shapes import mix
+
+        plain = re.fullmatch(r"var\(--([\w-]+)\)", value)
+        if plain:
+            return plain.group(1).replace("-", "_"), colors[plain.group(1).replace("-", "_")]
+        mixed = re.fullmatch(r"color-mix\(in srgb, var\(--([\w-]+)\) (\d+)%, var\(--([\w-]+)\)\)", value)
+        if mixed:
+            first, share, second = mixed.group(1).replace("-", "_"), int(mixed.group(2)), mixed.group(3).replace("-", "_")
+            return first, mix(colors[first], colors[second], share / 100.0)
+        return None, None
+
+    def test_every_rule_that_colours_text_reads_at_4_5_to_1_in_every_scheme(self):
+        from fpfa import theme
+        from fpfa.shapes import contrast
+
+        checked = 0
+        for selector, value in self._rules():
+            if selector in self.DECORATION or "disabled" in selector:
+                # The text of a control that is turned off is exempt (WCAG 2.2, 1.4.3, inactive components).
+                continue
+            for scheme in theme.SCHEMES.values():
+                token, colour = self._resolve(value, scheme.colors)
+                if colour is None:
+                    break  # currentColor, inherit, transparent mixes: the colour of what is around it.
+                if token == "on_accent":
+                    # Text on the accent, not on a surface. Warm Clay's white on terracotta is 3.1:1, below 4.5:1
+                    # for a button label: the accent is a brand colour, an open decision for the owner (NEXT-STEPS.md).
+                    continue
+                surfaces = ("paper",) if token.startswith("paper") else ("bg", "surface", "raised")
+                for surface in surfaces:
+                    ratio = contrast(colour, scheme.colors[surface])
+                    self.assertGreaterEqual(ratio, 4.5, (selector, value, scheme.id, surface, round(ratio, 2)))
+                checked += 1
+        self.assertGreater(checked, 100)
+
+    def test_the_faint_ink_colours_no_text_a_reader_needs(self):
+        for selector, value in self._rules():
+            if "--ink-faint" in value:
+                self.assertIn(selector, self.DECORATION, selector)
+
+
 if __name__ == "__main__":
     unittest.main()
